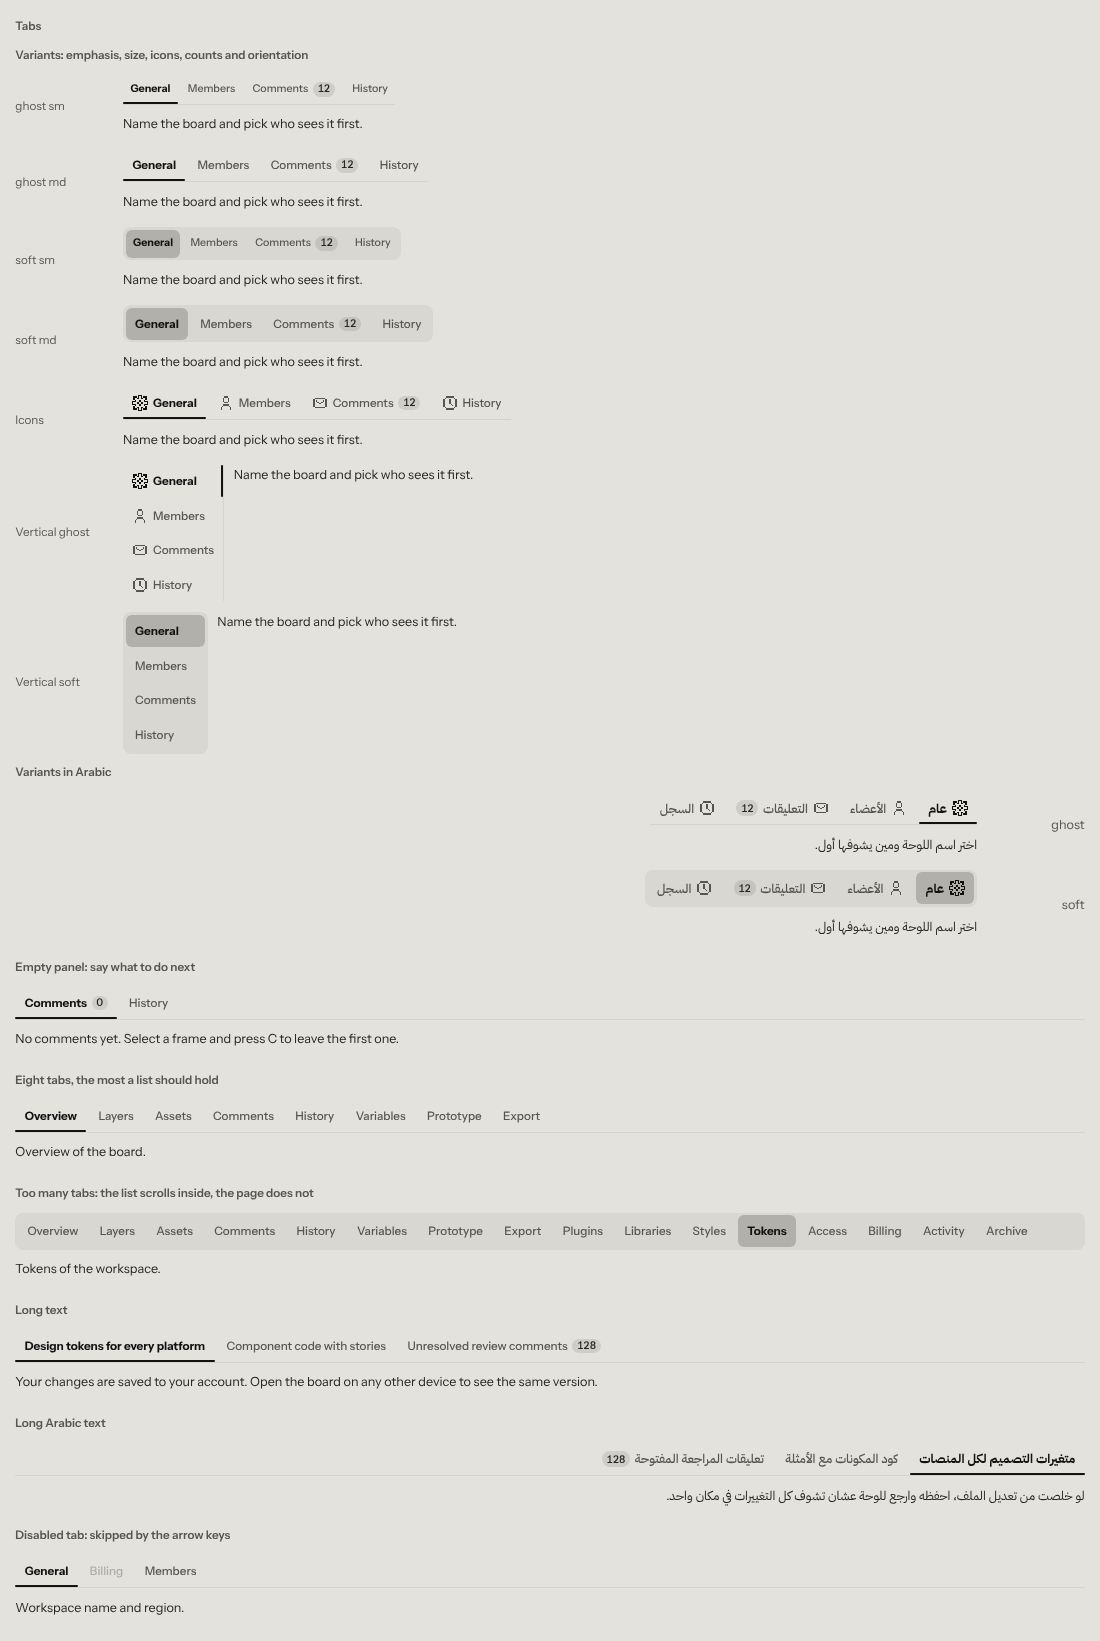
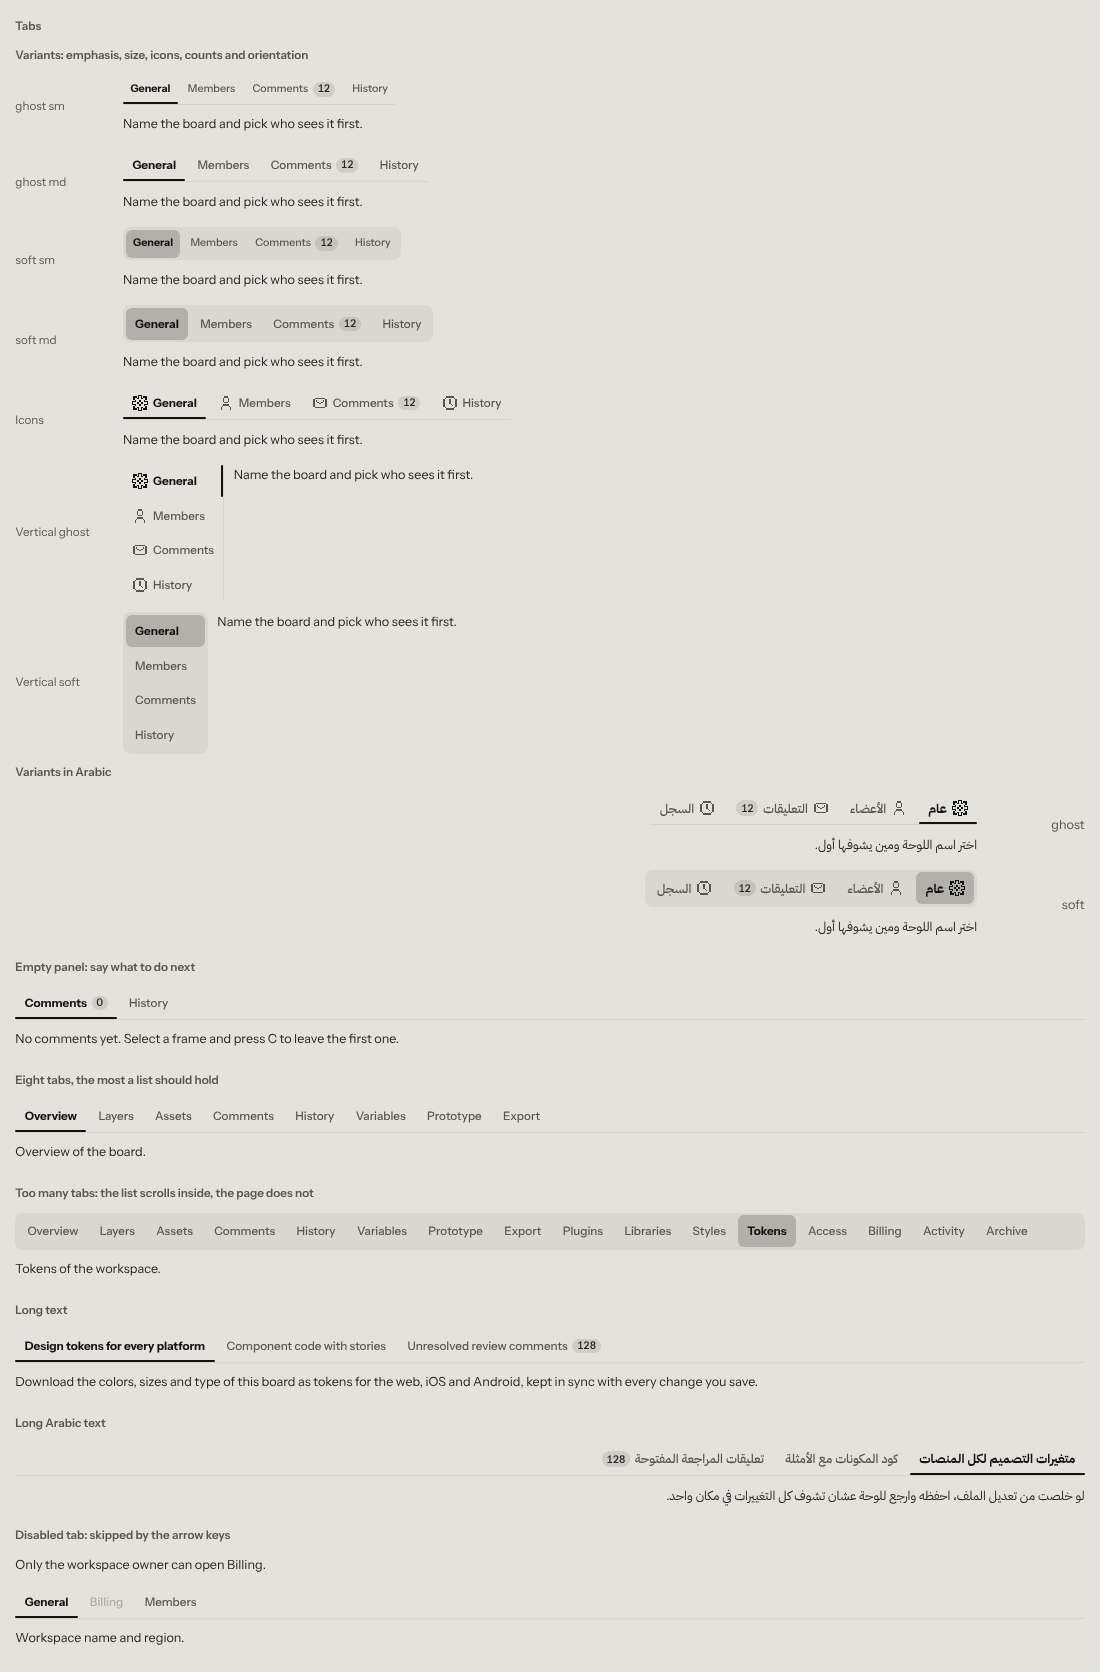
wo-1.7.4: tabs, review fixes
Claude-Session: https://claude.ai/code/session_01ErLBsdSbnyDtHbcF8wWvPW

diff --git a/packages/css/src/components/Tabs.css b/packages/css/src/components/Tabs.css
@@ -19,8 +19,10 @@
  *   --_tabs-count-bg, -count-fg
  *
  * Each trigger copies the private colors into its own --_tabs-trigger-*
- * properties, so a state rule swaps one property and the root rule writes
- * the declarations. Colors swap at once; only the indicator moves, with a
+ * properties: the state lives on the trigger, not the root, so the swap has
+ * to happen there. The root keeps every value a recipe overrides; the
+ * trigger properties only point at them. Every selector reaches the parts
+ * with child combinators, so a Tabs nested in a panel keeps its own look. Colors swap at once; only the indicator moves, with a
  * transform (Tabs.tsx, Web Animations API).
  */
 @layer ds.base {
@@ -108,7 +110,7 @@
 
   [data-ds='tabs'][data-orientation='vertical'] > [data-part='list'] {
     flex-direction: column;
-    max-inline-size: none;
+    max-inline-size: 50%;
     border-block-end-width: 0;
     border-inline-end: var(--ds-border-width-default) solid var(--_tabs-list-border-color);
     overflow-x: hidden;
@@ -121,7 +123,7 @@
 
   /* ------------------------------------------------------------ trigger */
 
-  [data-ds='tabs'] [data-part='trigger'] {
+  [data-ds='tabs'] > [data-part='list'] > [data-part='trigger'] {
     --_tabs-trigger-fg: var(--_tabs-fg);
     --_tabs-trigger-bg: transparent;
     --_tabs-trigger-weight: var(--_tabs-weight);
@@ -136,6 +138,7 @@
     block-size: var(--_tabs-height);
     min-block-size: var(--ds-size-target-min);
     min-inline-size: var(--ds-size-target-min);
+    max-inline-size: 100%;
     margin: 0;
     padding-block: 0;
     padding-inline: var(--_tabs-padding-inline);
@@ -154,23 +157,23 @@
     -webkit-tap-highlight-color: transparent;
   }
 
-  [data-ds='tabs'][data-emphasis='ghost'] [data-part='trigger'] {
+  [data-ds='tabs'][data-emphasis='ghost'] > [data-part='list'] > [data-part='trigger'] {
     border-end-start-radius: 0;
     border-end-end-radius: 0;
   }
 
-  [data-ds='tabs'][data-orientation='vertical'] [data-part='trigger'] {
+  [data-ds='tabs'][data-orientation='vertical'] > [data-part='list'] > [data-part='trigger'] {
     justify-content: flex-start;
   }
 
-  [data-ds='tabs'][data-orientation='vertical'][data-emphasis='ghost'] [data-part='trigger'] {
+  [data-ds='tabs'][data-orientation='vertical'][data-emphasis='ghost'] > [data-part='list'] > [data-part='trigger'] {
     border-radius: var(--_tabs-radius);
     border-start-end-radius: 0;
     border-end-end-radius: 0;
   }
 
   /* A long label ends in an ellipsis inside the tab; the list scrolls before that happens. */
-  [data-ds='tabs'] [data-part='trigger'] > [data-part='label'] {
+  [data-ds='tabs'] > [data-part='list'] > [data-part='trigger'] > [data-part='label'] {
     position: relative;
     min-inline-size: 0;
     overflow-x: clip;
@@ -178,13 +181,13 @@
     text-overflow: ellipsis;
   }
 
-  [data-ds='tabs'] [data-part='trigger'] > [data-part='start'] {
+  [data-ds='tabs'] > [data-part='list'] > [data-part='trigger'] > [data-part='start'] {
     position: relative;
     display: inline-flex;
     flex: none;
   }
 
-  [data-ds='tabs'] [data-part='trigger'] > [data-part='count'] {
+  [data-ds='tabs'] > [data-part='list'] > [data-part='trigger'] > [data-part='count'] {
     position: relative;
     display: inline-flex;
     flex: none;
@@ -212,7 +215,7 @@
    * on the block end edge, just inside the list hairline (the list clips
    * its overflow, so the line cannot overlap the border). soft: the pill.
    */
-  [data-ds='tabs'] [data-part='indicator'] {
+  [data-ds='tabs'] > [data-part='list'] > [data-part='trigger'] > [data-part='indicator'] {
     position: absolute;
     inset-inline: 0;
     inset-block-end: 0;
@@ -223,14 +226,14 @@
     pointer-events: none;
   }
 
-  [data-ds='tabs'][data-orientation='vertical'][data-emphasis='ghost'] [data-part='indicator'] {
+  [data-ds='tabs'][data-orientation='vertical'][data-emphasis='ghost'] > [data-part='list'] > [data-part='trigger'] > [data-part='indicator'] {
     inset-block: 0;
     inset-inline: auto 0;
     inline-size: var(--_tabs-indicator-thickness);
     block-size: auto;
   }
 
-  [data-ds='tabs'][data-emphasis='soft'] [data-part='indicator'] {
+  [data-ds='tabs'][data-emphasis='soft'] > [data-part='list'] > [data-part='trigger'] > [data-part='indicator'] {
     inset: 0;
     block-size: auto;
     border-radius: var(--_tabs-radius);
@@ -238,25 +241,25 @@
 
   /* ------------------------------------------------------------ states: swap the private properties */
 
-  [data-ds='tabs'] [data-part='trigger']:hover:not([data-disabled]) {
+  [data-ds='tabs'] > [data-part='list'] > [data-part='trigger']:hover:not([data-disabled], [data-state='active']) {
     --_tabs-trigger-fg: var(--_tabs-fg-hover);
     --_tabs-trigger-bg: var(--_tabs-bg-hover);
   }
 
-  [data-ds='tabs'] [data-part='trigger'][data-state='active'] {
+  [data-ds='tabs'] > [data-part='list'] > [data-part='trigger'][data-state='active'] {
     --_tabs-trigger-fg: var(--_tabs-fg-active);
     --_tabs-trigger-bg: transparent;
     --_tabs-trigger-weight: var(--_tabs-weight-active);
   }
 
   /* The transparent outline is set only here, so forced colors mode draws it on focus and nowhere else. */
-  [data-ds='tabs'] [data-part='trigger']:focus-visible {
+  [data-ds='tabs'] > [data-part='list'] > [data-part='trigger']:focus-visible {
     outline: var(--ds-border-width-strong) solid transparent;
     outline-offset: calc(-1 * var(--ds-border-width-strong));
     box-shadow: var(--_tabs-ring);
   }
 
-  [data-ds='tabs'] [data-part='trigger'][data-disabled] {
+  [data-ds='tabs'] > [data-part='list'] > [data-part='trigger'][data-disabled] {
     opacity: var(--ds-opacity-disabled);
     cursor: not-allowed;
   }
@@ -285,17 +288,17 @@
    * Highlight frame. The heavier weight still marks the active tab.
    */
   @media (forced-colors: active) {
-    [data-ds='tabs'] [data-part='indicator'] {
+    [data-ds='tabs'] > [data-part='list'] > [data-part='trigger'] > [data-part='indicator'] {
       background-color: Highlight;
       forced-color-adjust: none;
     }
 
-    [data-ds='tabs'][data-emphasis='soft'] [data-part='indicator'] {
+    [data-ds='tabs'][data-emphasis='soft'] > [data-part='list'] > [data-part='trigger'] > [data-part='indicator'] {
       border: var(--ds-border-width-strong) solid Highlight;
       background-color: transparent;
     }
 
-    [data-ds='tabs'] [data-part='trigger'][data-disabled] {
+    [data-ds='tabs'] > [data-part='list'] > [data-part='trigger'][data-disabled] {
       color: GrayText;
     }
   }

diff --git a/packages/react/src/components/Tabs/Tabs.tsx b/packages/react/src/components/Tabs/Tabs.tsx
@@ -46,6 +46,7 @@ import {
   type Ref,
 } from 'react';
 import { Tabs as RadixTabs } from 'radix-ui';
+import { parseDuration } from '@the-system/motion';
 import type { Emphasis, Size } from '@the-system/shared';
 import { renderSlotContent, type ButtonSlotContent } from '../Button/ButtonBase';
 import { useControllable } from '../Window/useControllable';
@@ -77,24 +78,11 @@ function useTabsContext(name: string): TabsContextValue {
   return ctx;
 }
 
-/** Reads a CSS time ("120ms", "0.2s") as milliseconds. Anything else is 0. */
-export function parseTime(value: string): number {
-  const v = value.trim();
-  const ms = /^(-?[\d.]+)ms$/.exec(v);
-  if (ms) return Number(ms[1]);
-  const s = /^(-?[\d.]+)s$/.exec(v);
-  if (s) return Number(s[1]) * 1000;
-  return 0;
-}
 
 // ------------------------------------------------------------------ Tabs
 
-export interface TabsProps
+interface TabsBaseProps
   extends Omit<ComponentProps<typeof RadixTabs.Root>, 'asChild' | 'value' | 'defaultValue' | 'onValueChange' | 'dir' | 'title'> {
-  /** Controlled value: the value of the active trigger, with onValueChange. */
-  value?: string;
-  /** The value active at first when uncontrolled. Default: none until a tab is chosen, so always pass one. */
-  defaultValue?: string;
   /** Called with the value of the tab that becomes active. */
   onValueChange?: (value: string) => void;
   /** Trigger height and type size. Default md. */
@@ -107,6 +95,12 @@ export interface TabsProps
   activationMode?: TabsActivationMode;
   ref?: Ref<HTMLDivElement>;
 }
+
+/**
+ * Controlled (`value`, with onValueChange) or uncontrolled (`defaultValue`,
+ * required then, so a panel always shows on load).
+ */
+export type TabsProps = TabsBaseProps & ({ value: string; defaultValue?: string } | { value?: undefined; defaultValue: string });
 
 /**
  * The tabs root. Holds the value; TabsList and the TabsPanel elements go
@@ -205,14 +199,25 @@ export function TabsTrigger({ value, start, count, children, ref, ...rest }: Tab
     if (!node) return;
     // Keep the active tab in view inside a scrolling list. Not on the first
     // render, so a page never scrolls by itself on load.
-    if (from !== null && from !== value && typeof node.scrollIntoView === 'function') {
-      node.scrollIntoView({ block: 'nearest', inline: 'nearest' });
+    // Only the list scrolls, never the page around it.
+    const list = node.parentElement;
+    if (from !== null && from !== value && list) {
+      if (ctx.orientation === 'vertical') {
+        const top = node.offsetTop - list.offsetTop;
+        if (top < list.scrollTop) list.scrollTop = top;
+        else if (top + node.offsetHeight > list.scrollTop + list.clientHeight) list.scrollTop = top + node.offsetHeight - list.clientHeight;
+      } else {
+        const l = node.getBoundingClientRect();
+        const b = list.getBoundingClientRect();
+        if (l.left < b.left) list.scrollLeft -= b.left - l.left;
+        else if (l.right > b.right) list.scrollLeft += l.right - b.right;
+      }
     }
     const indicator = indicatorRef.current;
     const prev = from !== null && from !== value ? ctx.triggers.get(from) : undefined;
     if (!indicator || !prev || typeof indicator.animate !== 'function') return;
     const style = getComputedStyle(indicator);
-    const duration = parseTime(style.getPropertyValue('--_tabs-indicator-duration'));
+    const duration = parseDuration(style.getPropertyValue('--_tabs-indicator-duration'));
     if (duration <= 0) return;
     const a = prev.getBoundingClientRect();
     const b = node.getBoundingClientRect();

diff --git a/packages/react/src/components/Tabs/Tabs.test.tsx b/packages/react/src/components/Tabs/Tabs.test.tsx
@@ -3,7 +3,6 @@ import { userEvent } from '@testing-library/user-event';
 import { describe, expect, it, vi } from 'vitest';
 import { Theme } from '../../theme/Theme';
 import TabsDemo from './Tabs.demo';
-import { parseTime as parseTimeForTest } from './Tabs';
 import { Tabs, TabsList, TabsPanel, TabsTrigger } from './index';
 
 function Example(props: Partial<Parameters<typeof Tabs>[0]> & { disabledB?: boolean }) {
@@ -150,13 +149,6 @@ describe('Tabs', () => {
     screen.getAllByRole('tab')[0]?.focus();
     await userEvent.tab();
     expect(document.activeElement).toBe(screen.getByRole('tabpanel'));
-  });
-
-  it('reads CSS times', () => {
-    expect(parseTimeForTest('120ms')).toBe(120);
-    expect(parseTimeForTest(' 0.2s')).toBe(200);
-    expect(parseTimeForTest('0ms')).toBe(0);
-    expect(parseTimeForTest('')).toBe(0);
   });
 
   it('throws outside Tabs', () => {

diff --git a/packages/react/src/components/Tabs/Tabs.demo.tsx b/packages/react/src/components/Tabs/Tabs.demo.tsx
@@ -167,7 +167,7 @@ export default function TabsDemo() {
             </TabsTrigger>
           </TabsList>
           <TabsPanel value="a">
-            <p>Your changes are saved to your account. Open the board on any other device to see the same version.</p>
+            <p>Download the colors, sizes and type of this board as tokens for the web, iOS and Android, kept in sync with every change you save.</p>
           </TabsPanel>
           <TabsPanel value="b">
             <p>Component code.</p>
@@ -200,6 +200,7 @@ export default function TabsDemo() {
       </DemoCase>
 
       <DemoCase id="disabled" title="Disabled tab: skipped by the arrow keys">
+        <p>Only the workspace owner can open Billing.</p>
         <Tabs defaultValue="general">
           <TabsList aria-label="Workspace settings">
             <TabsTrigger value="general">General</TabsTrigger>
